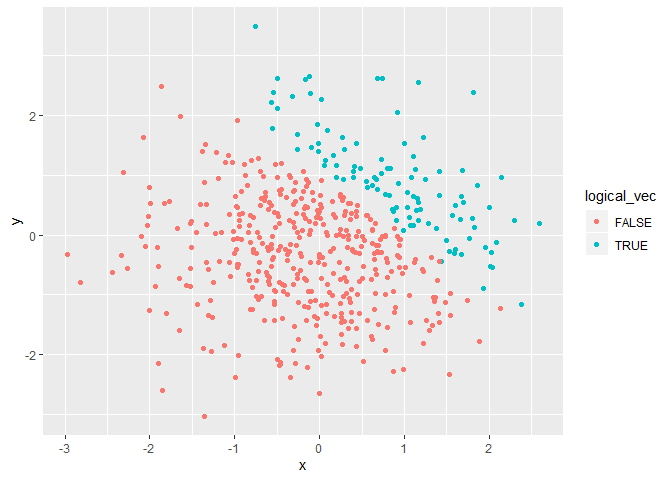
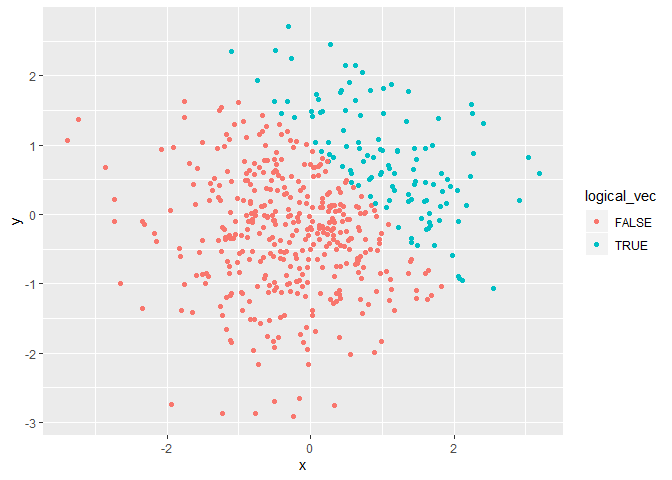
added plot

diff --git a/p8105_hw1_ilz2105.md b/p8105_hw1_ilz2105.md
@@ -7,12 +7,17 @@ Lulu Zhang
 | ------------- |
 | **Problem 1** |
 
+#### Create a dataframe
+
 Below I created a data frame that has: a random sample of size 8 from a
 standard Normal distribution, a logical vector indicating whether
 elements of the sample are greater than 0, a character vector of length
 8, and a factor vector of length 8, with 3 different factor “levels”.
 
 ``` r
+# set seed for reproducability
+set.seed(1)
+
 ## Create data frame
 df_1 = tibble(
   ran_samp = rnorm(8),
@@ -37,10 +42,14 @@ mean_fac = mean(pull(df_1, fac_vec))
     ## Warning in mean.default(pull(df_1, fac_vec)): argument is not numeric or
     ## logical: returning NA
 
-I found the mean for `mean_samp` and `mean_log`, but could not get the
-mean for `mean_char` and `mean_fac` because they were not numeric
-values. The mean for `mean_samp` is 0.2122077, and the mean for
-`mean_log` is 0.625.
+I found the mean for `ran_samp` and `log_vec`, and named them
+`mean_samp` and `mean_log`, respectively, but could not get the mean for
+`vec_char` and `fac_vec` because they were not numeric or logical
+values. The mean for `ran_samp` is 0.1314544, and the mean for
+`mean_log` is 0.625. This is possible because `ran_samp` and `log_vec`
+are numeric and logical vectors so we can take the mean.
+
+#### Use `as.numeric` for coercion
 
 Below, I applied `as.numeric` to the logical, character, and factor
 vectors to coerce into numeric vectors.
@@ -62,18 +71,21 @@ as.factor(pull(df_1, log_vec))*(pull(df_1, ran_samp))
 as.numeric(as.factor(pull(df_1, log_vec)))*(pull(df_1, ran_samp))
 ```
 
-The product of `log_vec` after being converted to numeric and `ran_samp`
-is 0.6769403, 2.4476847, 0, 1.2320885, 0.4870146, 0, 0, 0.6239952. We
-cannot mutiply a factor, so trying to convert `log_vec` to a factor and
-then multiplying `ran_samp` by the result did not work. However, we are
-able to convert `log_vec` to a factor and then convert that to a numeric
-vector and multiply that by `ran_samp` because they are both numeric
-vectors. The result was 1.3538806, 4.8953694, -1.4441797, 2.4641769,
-0.9740292, -1.4113638, -0.9145178, 1.2479904.
+After being converted to numeric, the product of `log_vec`and `ran_samp`
+is 0, 0.1836433, 0, 1.5952808, 0.3295078, 0, 0.4874291, 0.7383247. We
+cannot mutiply a factor vector because it is not numeric, so trying to
+convert `log_vec` to a factor and then multiplying `ran_samp` by the
+result did not work. However, we are able to convert `log_vec` to a
+factor and then convert that to a numeric vector and multiply that by
+`ran_samp` because they are both numeric vectors. The result was
+-0.6264538, 0.3672866, -0.8356286, 3.1905616, 0.6590155, -0.8204684,
+0.9748581, 1.4766494.
 
 |               |
 | ------------- |
 | **Problem 2** |
+
+#### Create a dataframe
 
 Below is a data frame comprised of: x, a random sample of size 500 from
 a standard Normal distribution, y, a random sample of size 500 from a
@@ -82,6 +94,9 @@ standard Normal distribution, a logical vector indicating whether x + y
 a factor vector created by coercing the above logical vector.
 
 ``` r
+# set seed for reproducability
+set.seed(1234)
+
 ## create a data frame
 df_2 = tibble(
   x = rnorm(500),
@@ -93,14 +108,17 @@ df_2 = tibble(
 ```
 
 The dataframe created above, `df_2`, has 500 rows and 5 columns The mean
-of `x` is -0.0092488. The median of `x` is -0.0092488. The standard
-deviation of `x` is 0.9704235. The proportion of cases for which x + y
-\> 1 is 0.214
+of `x` is 0.0018388. The median of `x` is 0.0018388. The standard
+deviation of `x` is 1.0348139. The proportion of cases for which x + y
+\> 1 is 0.232
+
+#### Create scatterplots
 
 Below I created a scatterplot of y vs x and colored points using the
 logical variable, `logical_vec`. Then, I created a second and third
 scatterplot that color points using the numeric and factor variables,
-`num_log` and `fac_vec`, respectively.
+`num_log` and `fac_vec`, respectively.Finally, I exported `plot_1` to my
+project directory as a png file.
 
 ``` r
 ## scatterplot with colored points using the logical variable
@@ -112,7 +130,25 @@ plot_2 = ggplot(df_2, aes(x, y, color = num_log)) + geom_point()
 ## scatterplot with colored points using the factor variable
 plot_3 = ggplot(df_2, aes(x, y, color = fac_vec)) + geom_point()
 
+#view plots
+plot_1
+```
 
+![](p8105_hw1_ilz2105_files/figure-gfm/yx_scatter-1.png)<!-- -->
+
+``` r
+plot_2
+```
+
+![](p8105_hw1_ilz2105_files/figure-gfm/yx_scatter-2.png)<!-- -->
+
+``` r
+plot_3
+```
+
+![](p8105_hw1_ilz2105_files/figure-gfm/yx_scatter-3.png)<!-- -->
+
+``` r
 ## export first scatterplot to directory
 ggsave("plot_1.png")
 ```
